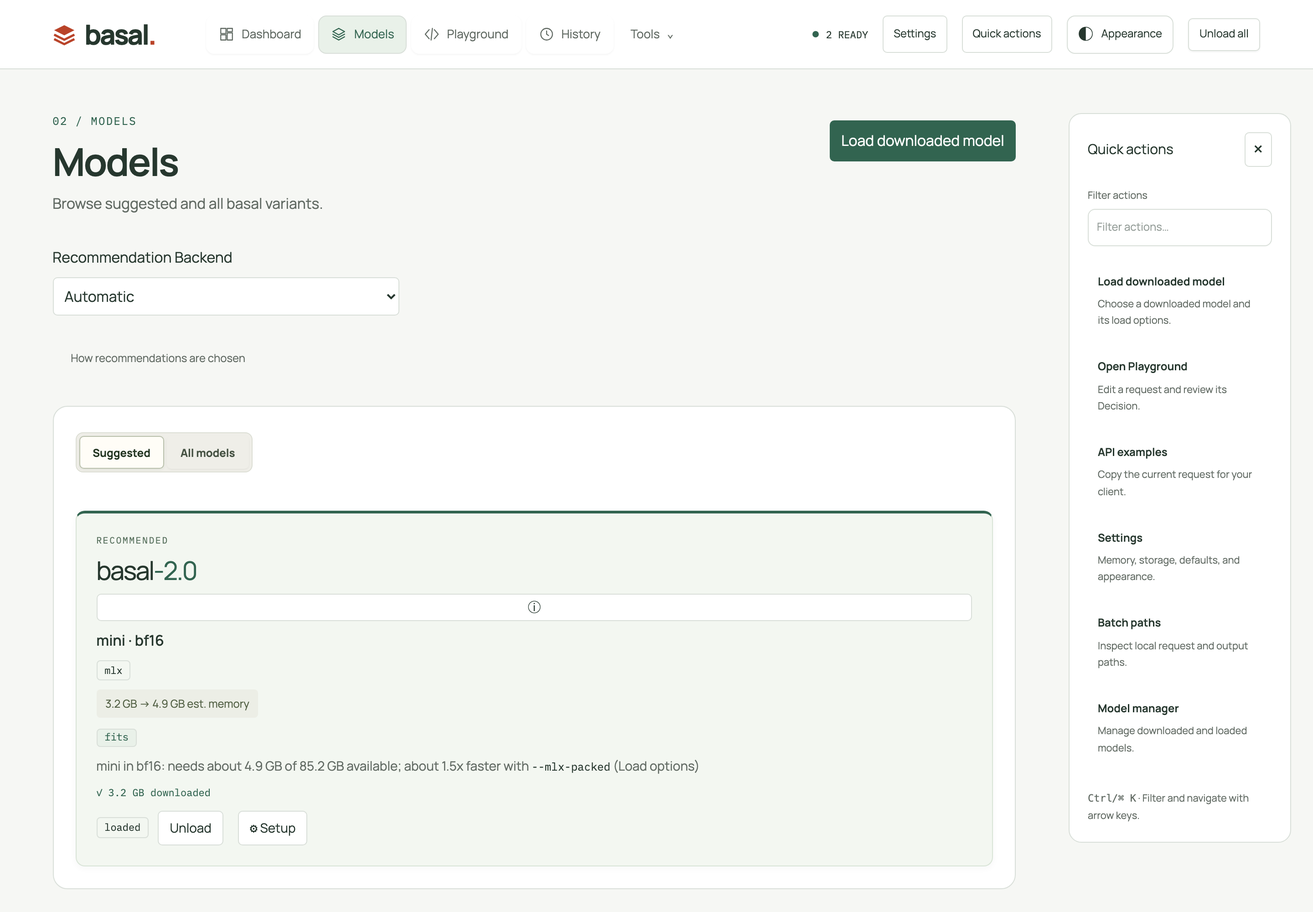
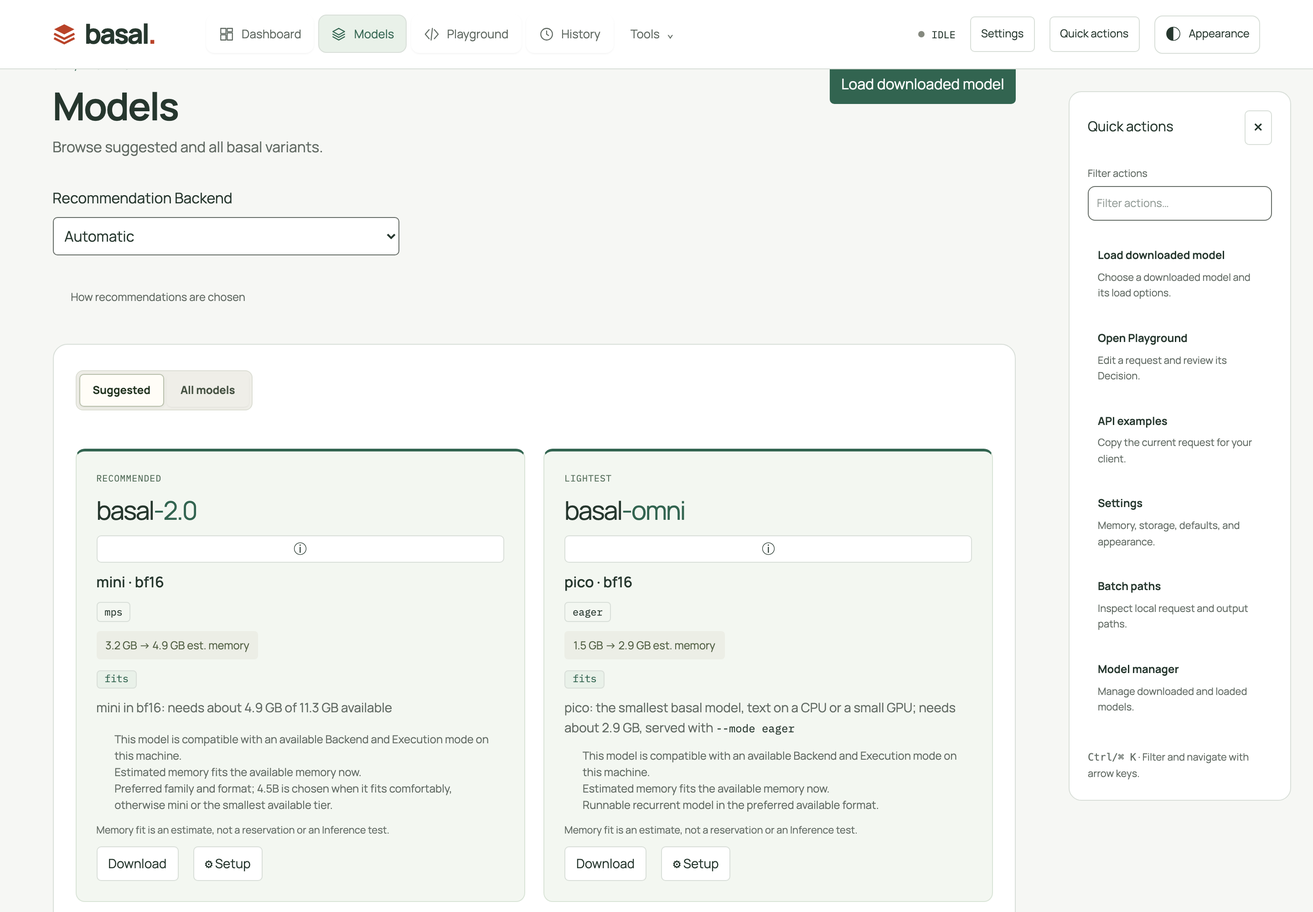
feat(models): explain why each model is suggested
Return per-slot selection reasons from catalog.suggest() (Backend
compatibility, estimated memory fit, slot ranking rule) and render them
on Suggested cards. Keep Browse all models reachable for any number of
suggestions and document the single multimodal-suggestion case. Refs #147.

diff --git a/basal_ui/static/index.html b/basal_ui/static/index.html
@@ -46,7 +46,7 @@
 <main class="main-content" id="main-content" tabindex="-1"><header class="page-header"><div class="eyebrow" id="pageEyebrow">01 / DASHBOARD</div><h1 id="pageTitle" tabindex="-1">Dashboard</h1><p id="pageDescription">Live activity, model status, and recent traffic.</p><button type="button" id="openModelLoader" class="primary">Load downloaded model</button></header>
 <section class="view" id="dashboard" data-page="dashboard" aria-label="Dashboard"></section>
 <section class="view" id="overview" data-page="overview"><div id="updatesBanner"></div><section id="hardware" class="card hardware" aria-label="Hardware"><div><div class="section-index">HARDWARE</div><div id="deviceName" class="hardware-name">Detecting hardware…</div><div id="engines" class="chips"></div></div><div class="hardware-grid"><div class="metric"><label>Platform</label><strong id="platform">—</strong></div><div class="metric"><label>Memory budget</label><strong id="hardwareBudget">—</strong></div><div class="metric"><label>Available now</label><strong id="availableMemory">—</strong></div><div class="metric"><label>System RAM</label><strong id="systemRam">—</strong></div></div></section></section>
-<div class="view recommendation-controls" data-page="models"><label for="recommendationBackend">Recommendation Backend</label><select id="recommendationBackend"><option value="automatic">Automatic</option></select><details class="manager-help"><summary>How recommendations are chosen</summary><p>Recommendations consider machine compatibility, installed Backends, model architecture and format, estimated memory, and available memory now. They prefer official current-family checkpoints and comfortable fits; community and experimental text variants remain in All models.</p><p id="recommendationMethod">Recommendation slots use catalog format and tier heuristics, not measured benchmarks. Best quality means the largest fitting tier; fastest means the smallest tier.</p><p>Multimodal recommendations show image/audio capabilities and missing add-ons. Install required add-ons in Backends before loading with media. Saved load settings are not changed by the recommendation Backend.</p></details></div>
+<div class="view recommendation-controls" data-page="models"><label for="recommendationBackend">Recommendation Backend</label><select id="recommendationBackend"><option value="automatic">Automatic</option></select><details class="manager-help"><summary>How recommendations are chosen</summary><p>Recommendations consider machine compatibility, installed Backends, model architecture and format, estimated memory, and available memory now. They prefer official current-family checkpoints and comfortable fits; community and experimental text variants remain in All models.</p><p id="recommendationMethod">Recommendation slots use catalog format and tier heuristics, not measured benchmarks. Best quality means the largest fitting tier; fastest means the smallest tier. Up to five slots appear; a slot is omitted when no candidate qualifies, and Best quality or Fastest is omitted when it duplicates another core slot.</p><p>Multimodal recommendations show image/audio capabilities and missing add-ons. Install required add-ons in Backends before loading with media. Saved load settings are not changed by the recommendation Backend.</p></details></div>
 <section class="view" id="models" data-page="models"><section class="card"><div class="tabs" role="tablist"><button class="btn active" id="suggestedTab" role="tab" aria-controls="suggested" aria-selected="true" data-variant="outline">Suggested</button><button class="btn" id="allModelsTab" role="tab" aria-controls="allModels" aria-selected="false" tabindex="-1" data-variant="outline">All models</button></div><div id="suggested" role="tabpanel" aria-labelledby="suggestedTab"><div class="empty">Loading suggestions…</div></div><div id="allModels" role="tabpanel" aria-labelledby="allModelsTab" hidden><div class="controls" style="margin-bottom:12px"><label><input class="switch" id="olderToggle" type="checkbox"> Older families</label><label><input class="switch" id="notRunnableToggle" type="checkbox"> Show not runnable</label><label><input class="switch" id="downloadedToggle" type="checkbox"> Downloaded only</label><button class="btn" id="refreshModels" data-variant="outline">Refresh</button></div><div id="backendModelFilterNotice" class="controls" hidden><span></span><button type="button" id="clearBackendModelFilter">Show all backends</button></div><div id="modelsTable" class="table-wrap"><div class="empty">Loading models…</div></div></div></section></section>
 <section class="view" id="manager" data-page="manager"><div class="manager-summary"><span id="managerLoadedCount">— loaded</span><span id="managerDiskCount">— downloaded</span><span id="managerDiskBytes">— on disk</span></div><div class="manager-tabs" role="tablist" aria-label="Model manager"><button type="button" role="tab" id="manager-tab-library" data-manager-tab="library" aria-controls="manager-library" aria-selected="true">Library</button><button type="button" role="tab" id="manager-tab-usage" data-manager-tab="usage" aria-controls="manager-usage" aria-selected="false" tabindex="-1">Usage by model</button><button type="button" role="tab" id="manager-tab-benchmarks" data-manager-tab="benchmarks" aria-controls="manager-benchmarks" aria-selected="false" tabindex="-1">Benchmarks</button><button type="button" role="tab" id="manager-tab-calibration" data-manager-tab="calibration" aria-controls="manager-calibration" aria-selected="false" tabindex="-1">Calibration</button></div>
 <section class="manager-panel" id="manager-library" role="tabpanel" aria-labelledby="manager-tab-library"><section class="card" id="inference" aria-live="polite"><div class="section-index">INFERENCE</div><div id="inferenceNow"><div class="inference-row idle"><span class="status-dot"></span><span class="muted">Idle</span></div></div></section><section class="card" id="status" aria-live="polite"><div class="section-head"><h2>Loaded models</h2></div><div id="memoryBar"></div><div id="loadedModels"><div class="empty">No model loaded</div></div></section><section class="card" id="attachCard" hidden><div class="section-head"><h2>Attach a model</h2></div><p class="muted">Attach a supported chat model to serve it through the Engine.</p><p id="attachUnavailable" class="muted" hidden>Attached models need Engine 2.5.</p><div class="controls" id="attachControls"><button type="button" id="openAttach" class="btn primary">Attach a chat model</button><button type="button" id="cancelAttach" class="btn" hidden>Cancel</button><a href="#logs/job%3Aattach">Logs</a></div><div id="attachJob" class="muted" aria-live="polite"></div><p id="attachRecovery" class="reason directory-hint" role="status" hidden></p></section><section class="card" id="decisionServers"><h2>Decision servers</h2><p class="muted">Attach a server to compare its models in Playground and Batch.</p><form id="decisionServerForm"><div class="serve-fields"><div class="field"><label for="decisionServerName">Name</label><input class="input" id="decisionServerName" required autocomplete="off"></div><div class="field"><label for="decisionServerUrl">Server URL</label><input class="input" id="decisionServerUrl" type="url" required autocomplete="url" placeholder="http://127.0.0.1:11434"></div><div class="field"><label for="decisionServerKey">API key (optional)</label><input class="input" id="decisionServerKey" type="password" autocomplete="new-password"></div></div><label id="decisionServerConsentField" hidden><input id="decisionServerConsent" type="checkbox"> <span id="decisionServerConsentText"></span></label><button type="submit" id="addDecisionServer">Attach Decision server</button><p id="decisionServerError" class="error-box" role="alert" tabindex="-1" hidden></p></form><div id="decisionServerList"></div></section><section class="card disk-list"><div class="section-head"><h2>On disk</h2></div><div id="diskModels"><div class="empty">Loading models…</div></div><div id="diskTotal" class="disk-total"></div></section></section>

diff --git a/basal_ui/static/app.css b/basal_ui/static/app.css
@@ -79,6 +79,7 @@
 .media-lightbox{max-width:92vw;max-height:92vh;padding:0;border:1px solid var(--line);border-radius:10px;background:var(--white)}.media-lightbox::backdrop{background:var(--media-backdrop)}.media-lightbox img{display:block;max-width:90vw;max-height:80vh;object-fit:contain;margin:0 auto}.media-lightbox-bar{display:flex;align-items:center;gap:12px;padding:8px 12px;font-size:13px}.media-lightbox-bar span{flex:1}.media-lightbox-bar small{color:var(--muted);font-family:var(--mono)}
 .tabs{display:inline-flex;flex-direction:row;flex-wrap:wrap;align-items:center;align-self:flex-start;max-width:100%;gap:3px;padding:3px;margin:4px 0 18px;background:var(--tabs-surface);border:1px solid var(--tabs-border);border-radius:8px}.tabs button{flex:0 1 auto;max-width:100%;white-space:normal;overflow-wrap:anywhere;min-height:36px;padding:4px 14px;border:1px solid transparent;border-radius:5px;background:transparent;color:var(--tab-text);font-size:12px;font-weight:700}@media (hover: hover){.tabs button:hover{background:var(--tab-active-surface);border-color:transparent;transform:none}}.tabs button.active{background:var(--tab-active-surface);border-color:var(--tab-active-border);box-shadow:0 1px 3px var(--tab-shadow-color);color:var(--tab-active-text)}
 .suggestion-grid{display:grid;grid-template-columns:repeat(auto-fit,minmax(min(100%,260px),1fr));gap:20px}.suggestion-card{display:flex;flex-direction:column;gap:10px;padding:22px;background:var(--suggestion-surface);border:1px solid var(--suggestion-border);border-top:3px solid var(--accent);border-radius:10px}.suggestion-card.omni{background:var(--suggestion-omni-surface);border-color:var(--omni-border);border-top-color:var(--omni)}.suggestion-card .eyebrow{font-size:10px;color:var(--suggestion-eyebrow)}.suggestion-card.omni .eyebrow{color:var(--omni)}.suggestion-card h3{font-size:28px;letter-spacing:-.043em;line-height:1.25}.family-suffix{color:var(--accent)}.omni .family-suffix{color:var(--omni)}.suggestion-card h3 small{font:12px var(--mono);margin-inline-start:7px;letter-spacing:0;color:var(--suggestion-omni-detail);vertical-align:middle}.suggestion-tier{font-size:16px;font-weight:550;color:var(--ink)}.suggestion-meta{display:inline-block;padding:7px 10px;background:var(--suggestion-meta-surface);border-radius:4px;font-size:12px;color:var(--suggestion-meta-text)}.suggestion-card .why{flex:1;font-size:14px;line-height:1.6;color:var(--muted)}.why code{font:12px var(--mono);color:var(--ink);white-space:nowrap}.suggestion-downloaded{font:11px/1.6 var(--mono);color:var(--green)}.suggestion-card button.primary{align-self:flex-start;display:inline-flex;align-items:center;gap:18px;min-height:40px;padding:10px 16px;font-size:13px}.suggestion-card .icon{width:16px;height:16px}.suggestion-card .dashboard-link{display:inline-flex;align-items:center;gap:6px;align-self:flex-start;white-space:nowrap}.badge.omni{background:var(--omni-light);border-color:var(--omni-border);color:var(--omni)}
+.suggestion-reasons{margin:0;padding-inline-start:20px;font-size:12px;line-height:1.5;color:var(--muted)}.suggestion-estimate-note{margin:0;font-size:11px;line-height:1.5;color:var(--muted)}.suggestion-catalog-link{margin-top:14px}
 .app-shell{min-height:100vh}.sidebar{position:sticky;z-index:10;top:0;display:flex;flex-wrap:wrap;align-items:center;justify-content:space-between;gap:24px;width:100%;min-height:76px;padding:12px clamp(18px,4vw,64px);background:var(--white);border-bottom:1px solid var(--line)}.sidebar-top{display:flex;flex:1 1 760px;flex-wrap:wrap;align-items:center;gap:clamp(20px,4vw,56px);min-width:0}.sidebar .brand{flex:none;padding:0}.brand{flex-wrap:wrap}.side-nav{display:flex;flex-wrap:wrap;align-items:center;gap:5px;min-width:0}.side-nav>button,.side-nav .nav-tools>summary{display:flex;align-items:center;gap:8px;min-height:42px;padding:10px 13px;border:1px solid transparent;border-radius:9px;background:transparent;color:var(--muted);font-size:13px;text-decoration:none;white-space:normal;overflow-wrap:anywhere}.side-nav button svg{width:17px;height:17px;fill:none;stroke:currentColor;stroke-width:1.6;stroke-linecap:round;stroke-linejoin:round}.side-nav button.active,.nav-tools.active>summary{background:var(--accent-light);border-color:transparent;color:var(--accent)}@media (hover: hover){.side-nav button:hover,.nav-tools>summary:hover{background:var(--paper);transform:none}}.side-nav button.active{box-shadow:none}.nav-tools{position:relative}.nav-tools>summary{cursor:pointer;list-style:none;transition:all var(--default-transition-duration) var(--default-transition-timing-function)}.nav-tools>summary::-webkit-details-marker{display:none}.nav-tools>summary:after{content:"⌄";font-size:12px}.nav-tools>div{position:absolute;z-index:20;top:calc(100% + 8px);inset-inline-start:0;display:grid;gap:3px;width:230px;padding:8px;border:1px solid var(--line);border-radius:12px;background:var(--white);box-shadow:var(--shadow)}.nav-tools>div button{width:100%;text-align:start}.sidebar-status{display:flex;align-items:center;gap:16px;border:0;padding:0;font-size:12px}.footer-status{display:flex;align-items:center;gap:8px;font:11px var(--mono);text-transform:uppercase;white-space:nowrap}.footer-model,.footer-url,.sidebar-status>.outline-action{display:none}.appearance-controls{position:relative}.appearance-controls details>summary{display:flex;align-items:center;justify-content:center;width:42px;height:42px;border:1px solid var(--line);border-radius:9px;background:var(--white);cursor:pointer;list-style:none;font-size:0}.appearance-controls details>summary::-webkit-details-marker{display:none}.appearance-controls details>summary:before{content:"◐";font-size:20px}.appearance-content{position:absolute;z-index:20;top:calc(100% + 8px);inset-inline-end:0;width:250px;padding:18px;border:1px solid var(--line);border-radius:12px;background:var(--white);box-shadow:var(--shadow)}.theme-controls{display:grid;grid-template-columns:repeat(3,minmax(0,1fr));gap:5px;width:100%;margin:0}.theme-controls button{width:100%;min-width:0;padding-inline:6px}.main-content{width:100%;max-width:1440px;margin:0 auto;padding:48px clamp(20px,4vw,64px) 100px}.page-header{display:block;margin:0 0 32px}.page-header .eyebrow{margin-bottom:8px}.page-header h1{font-size:42px;font-weight:650;line-height:1.3;letter-spacing:-.036em}.page-header p{max-width:65ch;margin-top:5px;color:var(--muted)}.view{display:grid;gap:24px}.view[hidden]{display:none}.view>.card,.manager-panel.card,.manager-panel .card{padding:28px}.manager-tabs{display:flex;flex-wrap:wrap;gap:8px;border-bottom:1px solid var(--line);padding-bottom:12px}.manager-tabs button{border:0;background:transparent;color:var(--muted);padding:10px 18px}.manager-tabs button[aria-selected=true]{background:var(--accent-light);color:var(--accent)}.manager-summary{display:flex;align-items:center;gap:24px 48px;flex-wrap:wrap;padding:0 0 20px;border-bottom:1px solid var(--line);font-size:12px;color:var(--muted)}.manager-summary span{font-variant-numeric:tabular-nums}.manager-summary span:first-child{font-size:15px;color:var(--ink);font-weight:650}.manager-panel[hidden]{display:none}.manager-panel-heading h2{font-size:20px}.manager-panel-heading p,.manager-usage-note{margin-top:6px;color:var(--muted);font-size:13px}.manager-reset-note{margin-top:24px;padding:16px 20px;border-radius:10px;background:var(--amber-light);color:var(--amber);font-size:12px;line-height:1.6}.manager-storage>summary{cursor:pointer;font-weight:650}.manager-storage .field{margin-bottom:0}.manager-panel .section-head{gap:16px}.manager-panel .disk-list{margin:0}.manager-panel .directory-row>div{min-width:0}.manager-panel #statsTable>.section-head{justify-content:flex-end;margin:0}.manager-panel #statsTable>.section-head>h3{display:none}.hardware{align-items:flex-start}.view .card{min-width:0}.table-wrap{max-width:100%;overflow-x:auto}
 #manager-library{display:grid;gap:24px}
 .manager-panel{min-width:0}

diff --git a/basal_ui/static/i18n.js b/basal_ui/static/i18n.js
@@ -526,6 +526,7 @@ const PL = {
   "Advanced": "Zaawansowane",
   "All": "Wszystkie",
   "All models": "Wszystkie modele",
+  "Browse all models": "Przeglądaj wszystkie modele",
   "All suggestions →": "Wszystkie propozycje →",
   "All supported": "Wszystkie poparte",
   "All supported: {answer}": "Wszystkie poparte: {answer}",
@@ -956,6 +957,19 @@ const PL = {
   "Media loads choose their mode (eager or vLLM) when loading from Model manager.": "Tryb dla mediów wybiera się podczas ładowania z Menedżera modeli.",
   "Media must be attached again after changing language.": "Po zmianie języka dołącz media ponownie.",
   "Memory": "Pamięć",
+  "Available memory is unknown; estimated memory fits the hardware budget.": "Dostępna pamięć jest nieznana; szacowana ilość pamięci mieści się w budżecie sprzętowym.",
+  "Available memory is unknown; estimated memory is a tight fit in the hardware budget.": "Dostępna pamięć jest nieznana; szacowana ilość pamięci ledwo mieści się w budżecie sprzętowym.",
+  "Estimated memory fits the available memory now.": "Szacowana ilość pamięci mieści się w pamięci dostępnej w tej chwili.",
+  "Estimated memory is a tight fit in the available memory now.": "Szacowana ilość pamięci ledwo mieści się w pamięci dostępnej w tej chwili.",
+  "Estimated memory fits the hardware budget.": "Szacowana ilość pamięci mieści się w budżecie sprzętowym.",
+  "Memory fit cannot be estimated for this model.": "Nie można oszacować dopasowania pamięci dla tego modelu.",
+  "Memory fit is an estimate, not a reservation or an Inference test.": "Dopasowanie pamięci jest szacunkiem, a nie rezerwacją ani testem wnioskowania.",
+  "Largest image/audio-capable checkpoint; a tight fit may be selected when none fits comfortably.": "Największy model obsługujący obrazy lub dźwięk; gdy żaden nie mieści się komfortowo, może zostać wybrany model z napiętym dopasowaniem.",
+  "Largest tier with a comfortable memory fit.": "Największy rozmiar modelu z komfortowym dopasowaniem pamięci.",
+  "Mini-tier heuristic, not measured throughput.": "Heurystyka dla rozmiaru mini, a nie zmierzona przepustowość.",
+  "Preferred family and format; 4.5B is chosen when it fits comfortably, otherwise mini or the smallest available tier.": "Preferowana rodzina i format; 4.5B jest wybierany, gdy mieści się komfortowo, w przeciwnym razie mini lub najmniejszy dostępny rozmiar.",
+  "This model is compatible with an available Backend and Execution mode on this machine.": "Ten model jest zgodny z dostępnym Backendem i trybem wykonania na tym komputerze.",
+  "Runnable recurrent model in the preferred available format.": "Uruchamialny model rekurencyjny w preferowanym dostępnym formacie.",
   "Memory & storage": "Pamięć i przechowywanie",
   "Memory budget": "Budżet pamięci",
   "Memory settings saved": "Zapisano ustawienia pamięci",
@@ -1135,7 +1149,7 @@ const PL = {
   "Reasoning tokens": "Tokeny rozumowania",
   "Recent traffic from this app process": "Ostatni ruch z tego procesu aplikacji",
   "Recommendation Backend": "Backend rekomendacji",
-  "Recommendation slots use catalog format and tier heuristics, not measured benchmarks. Best quality means the largest fitting tier; fastest means the smallest tier.": "Rekomendacje opierają się na heurystykach formatu i rozmiaru modeli w katalogu, a nie na pomiarach. Najlepsza jakość oznacza największy mieszczący się model, a najszybszy — najmniejszy wariant.",
+  "Recommendation slots use catalog format and tier heuristics, not measured benchmarks. Best quality means the largest fitting tier; fastest means the smallest tier. Up to five slots appear; a slot is omitted when no candidate qualifies, and Best quality or Fastest is omitted when it duplicates another core slot.": "Rekomendacje opierają się na heurystykach formatu i rozmiaru modeli w katalogu, a nie na pomiarach. Najlepsza jakość oznacza największy mieszczący się model, a najszybszy — najmniejszy wariant. Może pojawić się maksymalnie pięć kategorii; kategoria jest pomijana, gdy nie kwalifikuje się żaden model, a Najlepsza jakość lub Najszybszy — gdy powiela inną główną kategorię.",
   "Recommendations consider machine compatibility, installed Backends, model architecture and format, estimated memory, and available memory now. They prefer official current-family checkpoints and comfortable fits; community and experimental text variants remain in All models.": "Rekomendacje uwzględniają zgodność komputera, zainstalowane Backendy, architekturę i format modelu, szacowaną pamięć oraz pamięć dostępną obecnie. Preferują oficjalne modele z bieżącej rodziny i wygodny zapas pamięci; społecznościowe i eksperymentalne warianty tekstowe pozostają we Wszystkich modelach.",
   "Recorded Decision traffic": "Ruch zapisanych Decyzji",
   "Recorded Decisions by public entry point": "Zapisane Decyzje według publicznego punktu wejścia",

diff --git a/basal_ui/static/app.js b/basal_ui/static/app.js
@@ -206,20 +206,26 @@ function downloadControl(m, progress) {
   return `<button class="download-model" data-id="${esc(m.id)}">${t('Download')}</button>${progress?.error?`<span class="reason">${esc(progress.error)}</span>`:''}`;
 }
 function renderSuggestions(suggestions) {
-  if (!suggestions.length) { $('#suggested').innerHTML = `<div class="empty">${t('Nothing fits the memory available now; free memory or use All models')}</div>`; return; }
+  const browseAll = `<button type="button" class="dashboard-link suggestion-catalog-link">${t('Browse all models')} →</button>`;
+  if (!suggestions.length) {
+    $('#suggested').innerHTML = `<div class="empty">${t('Nothing fits the memory available now; free memory or use All models')}</div>${browseAll}`;
+    return;
+  }
   const models = new Map(modelData.map(m => [m.id, m]));
   $('#suggested').innerHTML = `<div class="suggestion-grid">${suggestions.map(s => {
     const m=models.get(s.id);if(!m)return '';
     const why=esc(ts(s.why,s.why_code,s.why_params)).replace(/(--[a-z][\w-]*(?: [a-z][\w.-]*)?)/g,'<code>$1</code>');
+    const reasons=(s.reasons||[]).map(reason=>`<li>${esc(t(reason))}</li>`).join('');
     const loaded=statusCache?.models?.find(x=>x.id===m.id), chosenMode=recommendationBackend!=='automatic'||s.media?s.mode:null, mode=chosenMode?` data-mode="${esc(chosenMode)}"`:'';
     const media=s.media&&s.media_available!==false, estimate=s.est_memory_bytes;
     const fit=s.fit_now||s.fit;
     const load=m.downloaded&&!loaded&&(s.media?media:m.runnable||s.mode)?`<button type="button" class="load-model primary" data-id="${esc(m.id)}" data-media="${media}"${mode}>${t(media?'Load with media':'Load')}</button>`:'';
     const setup=s.media_available===false?`<p class="reason">${esc(ts(s.media_reason,s.media_reason_code,s.media_reason_params))}</p><a class="dashboard-link" href="#backends">${t('Install media add-on')} →</a>`:'';
     const action=`<div class="controls">${loaded?diskActions(m):!m.downloaded?downloadControl(m,statusCache?.downloads?.[m.repo]):load}${optionsButton(m.id,false,'save')}${m.downloaded&&!loaded?deleteButton(m.id):''}</div>`;
-    return `<article class="suggestion-card${m.media.length?' omni':''}"><div class="eyebrow">${esc(t(s.slot.replace('_',' ')))}</div><h3>${familyMark(m.family)}</h3><button type="button" class="model-card-open" data-id="${esc(m.id)}" aria-label="${t('Model information')}">ⓘ</button><div class="suggestion-tier">${esc(m.tier)} · ${esc(m.label)}</div><div class="chips">${m.media.map(kind=>`<span class="chip media">${esc(mediaTitle([kind]))}</span>`).join('')}${s.mode?`<span class="chip">${esc(s.mode)}</span>`:''}</div><div><span class="suggestion-meta">${gb(m.weights_bytes)} → ${gb(estimate)} ${t('est. memory')}</span></div><div><span class="badge fit-${esc(fit||'unknown')}">${esc(t(fit||'unknown'))}</span></div><p class="why">${why}</p>${setup}${m.downloaded?`<div class="suggestion-downloaded">✓ ${gb(m.downloaded_bytes)} ${t('downloaded')}</div>`:''}${action}</article>`;
-  }).join('')}</div>`;
+    return `<article class="suggestion-card${m.media.length?' omni':''}"><div class="eyebrow">${esc(t(s.slot.replace('_',' ')))}</div><h3>${familyMark(m.family)}</h3><button type="button" class="model-card-open" data-id="${esc(m.id)}" aria-label="${t('Model information')}">ⓘ</button><div class="suggestion-tier">${esc(m.tier)} · ${esc(m.label)}</div><div class="chips">${m.media.map(kind=>`<span class="chip media">${esc(mediaTitle([kind]))}</span>`).join('')}${s.mode?`<span class="chip">${esc(s.mode)}</span>`:''}</div><div><span class="suggestion-meta">${gb(m.weights_bytes)} → ${gb(estimate)} ${t('est. memory')}</span></div><div><span class="badge fit-${esc(fit||'unknown')}">${esc(t(fit||'unknown'))}</span></div><p class="why">${why}</p><ul class="suggestion-reasons">${reasons}</ul><p class="suggestion-estimate-note">${t('Memory fit is an estimate, not a reservation or an Inference test.')}</p>${setup}${m.downloaded?`<div class="suggestion-downloaded">✓ ${gb(m.downloaded_bytes)} ${t('downloaded')}</div>`:''}${action}</article>`;
+  }).join('')}</div>${browseAll}`;
 }
+$('#suggested').addEventListener('click',event=>{if(event.target.closest('.suggestion-catalog-link'))selectModelsTab('all');});
 document.addEventListener('click',e=>{const b=e.target.closest('.model-card-open');if(b)act(()=>openModelCard(b.dataset.id));});
 async function openModelCard(id) {
   const c=await api(`/api/models/card?id=${encodeURIComponent(id)}`);

diff --git a/basal_ui/catalog.py b/basal_ui/catalog.py
@@ -110,9 +110,43 @@ def message_fields(text: str | None, prefix: str) -> tuple[str | None, dict | No
     return _message_fields(text, tuple(code for code in ASSESSMENT_TEMPLATES if code.startswith(prefix)))
 
 
-def _suggestion(slot: str, model_id: str, code: str, **params) -> dict:
+def _suggestion(slot: str, model_id: str, code: str, *, reasons: list[str], **params) -> dict:
     text, code, params = _coded(code, **params)
-    return {"slot": slot, "id": model_id, "why": text, "why_code": code, "why_params": params}
+    return {"slot": slot, "id": model_id, "why": text, "why_code": code, "why_params": params, "reasons": reasons}
+
+
+def _suggestion_reasons(slot: str, item: "Assessment") -> list[str]:
+    reasons = []
+    if item.runnable or item.media_mode:
+        reasons.append("This model is compatible with an available Backend and Execution mode on this machine.")
+    if item.fit_now == "unknown":
+        memory_reason = {
+            "fits": "Available memory is unknown; estimated memory fits the hardware budget.",
+            "tight": "Available memory is unknown; estimated memory is a tight fit in the hardware budget.",
+            "unknown": "Memory fit cannot be estimated for this model.",
+        }.get(item.fit, "Estimated memory fits the hardware budget.")
+    else:
+        memory_reason = {
+            "fits": "Estimated memory fits the available memory now.",
+            "tight": "Estimated memory is a tight fit in the available memory now.",
+            "unknown": "Memory fit cannot be estimated for this model.",
+        }.get(item.fit_now, "Estimated memory fits the hardware budget.")
+    reasons.append(memory_reason)
+    reasons.append(
+        {
+            "recommended": (
+                "Preferred family and format; 4.5B is chosen when it fits comfortably, otherwise mini or the "
+                "smallest available tier."
+            ),
+            "best_quality": "Largest tier with a comfortable memory fit.",
+            "fastest": "Mini-tier heuristic, not measured throughput.",
+            "lightest": "Runnable recurrent model in the preferred available format.",
+            "multimodal": (
+                "Largest image/audio-capable checkpoint; a tight fit may be selected when none fits comfortably."
+            ),
+        }[slot]
+    )
+    return reasons
 
 
 # The basal-omni checkpoints that carry image / audio encoders (docs/OMNI.md); basal-omni-1.1-max is Gemma 4 Unified
@@ -574,10 +608,13 @@ def _gb(size: int | None) -> str:
 
 
 def suggest(items: list[Assessment], hw: Hardware, *, packed: bool = True) -> list[dict]:
-    """Suggestion cards [{"slot", "id", "why"}] in slot order recommended, best_quality, fastest, lightest, multimodal;
-    a slot is left out when nothing qualifies. Only variants that fit both the memory budget and the memory available
-    now are candidates, and a comfortable fit wins over a tight one. Where the available memory is unknown, the budget
-    fit stands in for it."""
+    """Return up to five localized suggestion slots: recommended, best_quality, fastest, lightest and multimodal.
+
+    A slot is omitted when it has no eligible candidate; best_quality and fastest are also omitted when their
+    candidate duplicates another core slot. Lightest and multimodal are selected independently and may share a model.
+    Candidates must fit the memory budget and available memory now; a comfortable fit wins over a tight one. Where
+    available memory is unknown, the budget fit stands in for it.
+    """
 
     def now(a: Assessment) -> str:
         return a.fit if a.fit_now == "unknown" else a.fit_now
@@ -639,15 +676,33 @@ def suggest(items: list[Assessment], hw: Hardware, *, packed: bool = True) -> li
                     if memory is not None
                     else "suggest_packed_unknown"
                 )
-            suggestions.append(_suggestion("recommended", v.id, code, **params))
+            suggestions.append(
+                _suggestion(
+                    "recommended",
+                    v.id,
+                    code,
+                    reasons=_suggestion_reasons("recommended", recommended),
+                    **params,
+                )
+            )
         if best and best is not recommended:
             suggestions.append(
-                _suggestion("best_quality", best.variant.id, "suggest_best", estimate=_gb_number(best.est_memory_bytes))
+                _suggestion(
+                    "best_quality",
+                    best.variant.id,
+                    "suggest_best",
+                    reasons=_suggestion_reasons("best_quality", best),
+                    estimate=_gb_number(best.est_memory_bytes),
+                )
             )
         if fastest and fastest not in (recommended, best):
             suggestions.append(
                 _suggestion(
-                    "fastest", fastest.variant.id, "suggest_fastest", estimate=_gb_number(fastest.est_memory_bytes)
+                    "fastest",
+                    fastest.variant.id,
+                    "suggest_fastest",
+                    reasons=_suggestion_reasons("fastest", fastest),
+                    estimate=_gb_number(fastest.est_memory_bytes),
                 )
             )
     light = [a for a in fitting if a.runnable and a.variant.recurrent]
@@ -660,6 +715,7 @@ def suggest(items: list[Assessment], hw: Hardware, *, packed: bool = True) -> li
                 "lightest",
                 pick.variant.id,
                 "suggest_lightest",
+                reasons=_suggestion_reasons("lightest", pick),
                 tier=pick.variant.tier,
                 estimate=_gb_number(pick.est_memory_bytes),
                 mode=pick.mode,
@@ -676,6 +732,7 @@ def suggest(items: list[Assessment], hw: Hardware, *, packed: bool = True) -> li
                     "multimodal",
                     multimodal.variant.id,
                     "suggest_multimodal",
+                    reasons=_suggestion_reasons("multimodal", multimodal),
                     kinds=list(multimodal.variant.media),
                     mode=media_mode,
                 ),

diff --git a/tests/test_ui_catalog.py b/tests/test_ui_catalog.py
@@ -194,6 +194,22 @@ def test_suggestions_by_hardware_and_available_memory():
     assert media_card["media_setup"] is None and media_card["media_reason_code"] is None
 
 
+def test_single_multimodal_suggestion_when_no_text_model_is_runnable():
+    host = hw("cpu", "CPU", None, frozenset({"media"}), 16 * 1024**3, 12 * 1024**3)
+    repo = "Remek/basal-omni-1.0-mini"
+    model = _variants(repo, {"model.safetensors": variant(repo).weights_bytes})[0]
+    candidate = assess(model, host)
+
+    cards = suggest([candidate], host)
+
+    assert candidate.variant.media == ("image", "audio")
+    assert not candidate.runnable and candidate.media_mode == "eager" and candidate.media_reason is None
+    assert [(card["slot"], card["id"]) for card in cards] == [("multimodal", repo)]
+    assert cards[0]["reasons"][-1] == (
+        "Largest image/audio-capable checkpoint; a tight fit may be selected when none fits comfortably."
+    )
+
+
 def test_suggestion_codes_reproduce_english_text_with_structured_params():
     apple = hw("apple", "M4 Max", None, frozenset({"mlx"}), 24 * 1024**3, 6 * 1024**3)
     repos = ["Remek/basal-2.0-mini-MLX-8bit", "Remek/basal-2.0-4.5B-MLX-8bit"]

diff --git a/basal_ui/app.py b/basal_ui/app.py
@@ -1273,7 +1273,9 @@ def create_app(
             "recommendation_backend": backend,
             "recommendation_note": (
                 "Recommendation slots use catalog format and tier heuristics, not measured benchmarks. "
-                "Best quality means the largest fitting tier; fastest means the smallest tier."
+                "Best quality means the largest fitting tier; fastest means the smallest tier. "
+                "Up to five slots appear; a slot is omitted when no candidate qualifies, and Best quality or Fastest "
+                "is omitted when it duplicates another core slot."
             ),
             "suggestions": suggestions,
             "models_dir": str(Path(cache_dir).resolve()),

diff --git a/docs/API.md b/docs/API.md
@@ -36,12 +36,13 @@ a Backend changes `suggestions`, not Saved load settings or the global catalog f
 `GET /api/calibrations?id=…` lists each file’s `layout`, the active or saved layout in `shipped.context`, `layout_mismatch` and its message code, the model `default_layout`, and the `calibrate_layout` Engine capability. `POST /api/calibrate` uses that active or saved layout and returns `calibration_layout_unsupported` if the Engine lacks the required layout flag, including a canonical override of a non-canonical model default. Refit uses the original file layout and returns `calibration_rows_layout_unknown` when its paired calibration cannot establish that layout. Saved-row refits work without the model snapshot, reject known identity contradictions, and honor the requested comparison; when a legacy row header lacks revision, the paired calibration’s declared revision is trusted, not independently verified. `calibration_rows_baseline_unavailable` reports an unreadable baseline. Mismatched baseline thresholds are excluded using Engine semantics. Model listings expose `has_calibration_rows` so those refits remain reachable.
 Each calibration listing, fit, and model-card shipped calibration uses one snapshot of the active or saved load settings for revision, mode, and layout. Invalid or non-object model layout metadata leaves `default_layout` null and reports `shipped.error`; fitted files remain available in the listing.
 
-Each suggestion carries `slot`, `id`, English `why` plus `why_code`/`why_params`, `mode`, `media`,
-`est_memory_bytes`, `fit` and `fit_now`. A multimodal suggestion also carries `media_available`, nullable
-`media_reason`, `media_reason_code`/`media_reason_params`, and `media_setup` (`#backends` when dependencies are
-missing). A missing add-on is not represented as a working media load. `recommendation_note` explicitly identifies
-format/tier rankings as heuristics rather than benchmarks. Physical-memory estimates do not reserve capacity;
-`POST /api/load` separately enforces configured budget/reserve and active commitments.
+Each suggestion carries `slot`, `id`, English `why` plus `why_code`/`why_params`, a `reasons` list explaining its
+machine/Backend compatibility, memory fit and slot-ranking basis, `mode`, `media`, `est_memory_bytes`, `fit` and
+`fit_now`. The UI translates these English reason strings. A multimodal suggestion also carries `media_available`,
+nullable `media_reason`, `media_reason_code`/`media_reason_params`, and `media_setup` (`#backends` when dependencies
+are missing). A missing add-on is not represented as a working media load. `recommendation_note` explains the catalog
+heuristics and the up-to-five slot limit, including why empty or duplicate core slots are omitted. Physical-memory
+estimates do not reserve capacity; `POST /api/load` separately enforces configured budget/reserve and active commitments.
 
 | Route | Contract |
 |---|---|

diff --git a/docs/USAGE.md b/docs/USAGE.md
@@ -109,6 +109,14 @@ models loaded when basal-ui last ran, in load order. This category also holds up
   *Lightest* offers the recurrent pico family. *Multimodal* selects fitting native image/audio checkpoints, including
   when the media add-on is missing; such a card explains the missing dependency and links to Backends instead of
   pretending media can load. Media estimates use their eager/vLLM path, not a text CUDA-graph estimate.
+  Each card explains its machine/Backend compatibility, memory fit and slot-ranking rule; the All models tab and
+  **Browse all models** action remain available even when no suggestion qualifies. Text slots require a runnable,
+  non-experimental text candidate. The multimodal slot is selected independently from fitting media-capable variants,
+  so a single `basal-omni-1.0` multimodal suggestion can appear when no text candidate is runnable. The API only offers
+  that card when its media Execution mode is compatible with the host. This explains selection, not model quality:
+  quality and speed labels are catalog heuristics, not measured benchmarks.
+  There are up to five slots: Recommended, Best quality, Fastest, Lightest and Multimodal. A slot with no eligible
+  candidate is omitted; Best quality and Fastest are also omitted when their model duplicates another core slot.
   Loads still enforce the configured Fleet budget, keep-free reserve and existing reservations; recommendations are
   estimates, not a reservation or an Inference test. A selected Backend opens its recommendation's load options for
   review, retaining the Saved revision and other inputs. Leave **Remember** unchecked to load this choice without

diff --git a/docs/WHATS_NEW.md b/docs/WHATS_NEW.md
@@ -16,6 +16,8 @@ This release adds model orchestration, scheduled inference, and new ways to buil
 - Schedule Batch over folders of JSONL files with local-time intervals, protected outputs, and run history. On Engines
   with Batch resume support, choose Resume or Restart after an interruption. Set the unanswered-line limit and use
   Engine question presets with automatic, Polish or English wording. [Batch](USAGE.md#batch)
+- Explain each Suggested card's compatibility, memory-fit and slot-ranking reasons. Keep **Browse all models** available
+  when no suggestion qualifies; memory estimates are labeled advisory. [Model suggestions](USAGE.md#browser-app-pick-a-model-for-your-hardware-and-try-it)
 
 ## Playground and History
 
